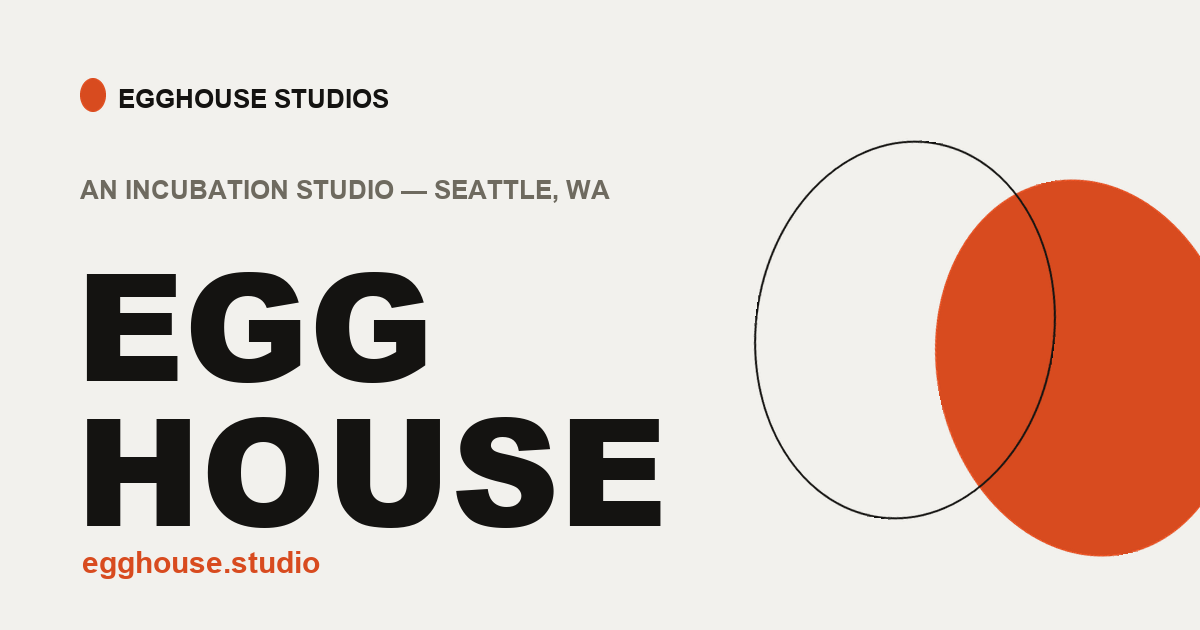
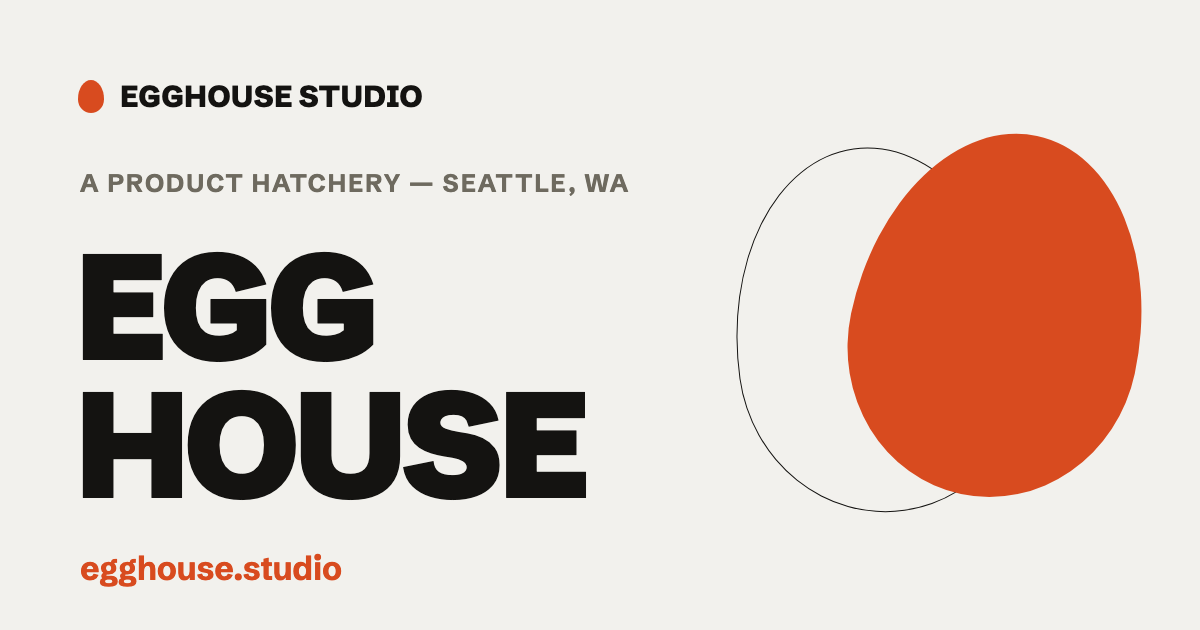
Update OG/social image to new positioning
Regenerate og-image.png: "EGGHOUSE STUDIOS" -> "EGGHOUSE STUDIO" and
"AN INCUBATION STUDIO" -> "A PRODUCT HATCHERY", matching the live site
copy. Add og-image.src.html (the HTML the image is rendered from via
headless Chrome at 1200x630) so it can be regenerated on future copy
changes instead of hand-edited.

diff --git a/og-image.src.html b/og-image.src.html
@@ -1,0 +1,47 @@
+<!DOCTYPE html>
+<html lang="en">
+<head>
+<meta charset="utf-8">
+<link rel="preconnect" href="https://fonts.googleapis.com">
+<link rel="preconnect" href="https://fonts.gstatic.com" crossorigin>
+<link href="https://fonts.googleapis.com/css2?family=Schibsted+Grotesk:wght@400;500;700;800;900&display=swap" rel="stylesheet">
+<style>
+  * { margin: 0; padding: 0; box-sizing: border-box; }
+  html, body { width: 1200px; height: 630px; overflow: hidden; }
+  .card {
+    position: relative; width: 1200px; height: 630px;
+    background: #F2F1ED; color: #141311;
+    font-family: 'Schibsted Grotesk', sans-serif;
+    overflow: hidden;
+  }
+  .egg { border-radius: 50% 50% 50% 50% / 58% 58% 42% 42%; }
+
+  /* right-side decorative eggs */
+  .blob { position: absolute; right: 56px; top: 50%; transform: translateY(-50%) rotate(12deg);
+          width: 290px; height: 366px; background: #D84B1F; }
+  .ring { position: absolute; right: 176px; top: 50%; transform: translateY(-46%) rotate(-8deg);
+          width: 290px; height: 366px; border: 1.5px solid #141311; }
+
+  /* content */
+  .wordmark { position: absolute; left: 78px; top: 78px; display: flex; align-items: center; gap: 16px; }
+  .wordmark .dot { width: 26px; height: 33px; background: #D84B1F; }
+  .wordmark .name { font-size: 30px; font-weight: 800; letter-spacing: 0.01em; }
+  .eyebrow { position: absolute; left: 80px; top: 168px;
+             font-size: 25px; font-weight: 700; letter-spacing: 0.07em; color: #6E6A5F; }
+  .title { position: absolute; left: 74px; top: 238px;
+           font-size: 150px; line-height: 0.92; font-weight: 900; letter-spacing: -0.045em; }
+  .url { position: absolute; left: 80px; top: 548px;
+         font-size: 33px; font-weight: 700; letter-spacing: -0.01em; color: #D84B1F; }
+</style>
+</head>
+<body>
+  <div class="card">
+    <div class="ring egg"></div>
+    <div class="blob egg"></div>
+    <div class="wordmark"><div class="dot egg"></div><div class="name">EGGHOUSE STUDIO</div></div>
+    <div class="eyebrow">A PRODUCT HATCHERY — SEATTLE, WA</div>
+    <h1 class="title">EGG<br>HOUSE</h1>
+    <div class="url">egghouse.studio</div>
+  </div>
+</body>
+</html>
